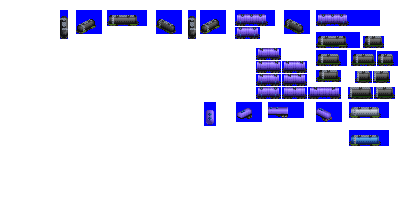
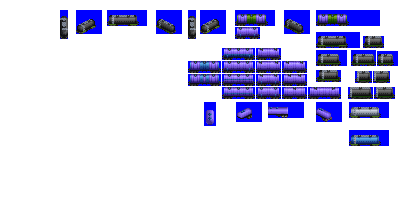
Change: more short/medium/long faff, more tank car faff

Changed region(s): [[0.45, 0.24, 0.66, 0.51], [0.78, 0.06, 0.87, 0.12], [0.6, 0.06, 0.66, 0.12]]

diff --git a/src/vehicles/caboose_cars.py b/src/vehicles/caboose_cars.py
@@ -3,9 +3,22 @@ from train import CabooseConsist, CabooseCar
 
 
 def main():
+    #--------------- pony NG ----------------------------------------------------------------------
+    consist = CabooseConsist(roster='pony',
+                             base_numeric_id=1290,
+                             gen=1,
+                             subtype='A',
+                             track_type='NG')
+
+    consist.add_unit(type=CabooseCar,
+                     vehicle_length=4)
+
+    consist.add_model_variant(start_date=0,
+                              end_date=global_constants.max_game_date,
+                              spritesheet_suffix=0)
+
     #--------------- pony ----------------------------------------------------------------------
-    consist = CabooseConsist(title='[Caboose Car] Short',
-                             roster='pony',
+    consist = CabooseConsist(roster='pony',
                              base_numeric_id=1280,
                              gen=1,
                              subtype='A')
@@ -17,28 +30,13 @@ def main():
                               end_date=global_constants.max_game_date,
                               spritesheet_suffix=0)
 
-    consist = CabooseConsist(title='[Caboose Car] Long',
-                             roster='pony',
+    consist = CabooseConsist(roster='pony',
                              base_numeric_id=2210,
                              gen=1,
                              subtype='B')
 
     consist.add_unit(type=CabooseCar,
                      vehicle_length=6)
-
-    consist.add_model_variant(start_date=0,
-                              end_date=global_constants.max_game_date,
-                              spritesheet_suffix=0)
-
-    consist = CabooseConsist(title='[Caboose Car]',
-                             roster='pony',
-                             base_numeric_id=1290,
-                             gen=1,
-                             subtype='A',
-                             track_type='NG')
-
-    consist.add_unit(type=CabooseCar,
-                     vehicle_length=4)
 
     consist.add_model_variant(start_date=0,
                               end_date=global_constants.max_game_date,

diff --git a/src/vehicles/tank_cars.py b/src/vehicles/tank_cars.py
@@ -185,7 +185,23 @@ def main():
                               spritesheet_suffix=1,
                               graphics_processor=consist.graphics_processors[1])
 
-    # no gen 6 tank cars, cap to gen 5 in Pony
+    consist = TankConsist(roster='pony',
+                          base_numeric_id=2790,
+                          gen=6,
+                          subtype='C')
+
+    consist.add_unit(type=FreightCar,
+                     vehicle_length=8)
+
+    consist.add_model_variant(start_date=0,
+                              end_date=global_constants.max_game_date,
+                              spritesheet_suffix=0,
+                              graphics_processor=consist.graphics_processors[0])
+
+    consist.add_model_variant(start_date=0,
+                              end_date=global_constants.max_game_date,
+                              spritesheet_suffix=1,
+                              graphics_processor=consist.graphics_processors[1])
 
     #--------------- llama ----------------------------------------------------------------------
     consist = TankConsist(roster='llama',

diff --git a/src/train.py b/src/train.py
@@ -626,6 +626,12 @@ class CabooseConsist(WagonConsist):
     def __init__(self, **kwargs):
         self.base_id = 'caboose_car'
         super().__init__(**kwargs)
+        if self.subtype == "C":
+            self.title = '[Caboose Car Large]'
+        elif self.subtype == "B":
+            self.title = '[Caboose Car Medium]'
+        else:
+            self.title = '[Caboose Car Small]'
         self.speed_class = None # no speed limit
         # no graphics processing - don't random colour cabeese, I tried it, looks daft
         self.class_refit_groups = [] # refit nothing, don't mess with this, it breaks auto-replace

diff --git a/src/vehicles/box_cars.py b/src/vehicles/box_cars.py
@@ -139,7 +139,7 @@ def main():
     consist = BoxConsist(roster='pony',
                          base_numeric_id=2480,
                          gen=5,
-                         subtype='A')
+                         subtype='B')
 
     consist.add_unit(type=BoxCar,
                      vehicle_length=6)
@@ -157,7 +157,7 @@ def main():
     consist = BoxConsist(roster='pony',
                          base_numeric_id=2490,
                          gen=5,
-                         subtype='B')
+                         subtype='C')
 
     consist.add_unit(type=BoxCar,
                      vehicle_length=8)
